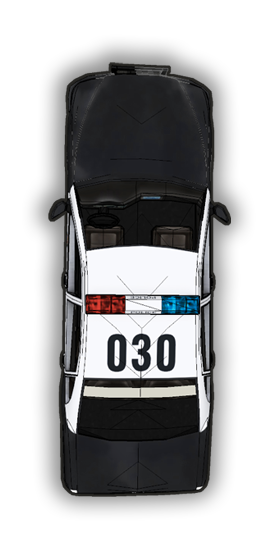
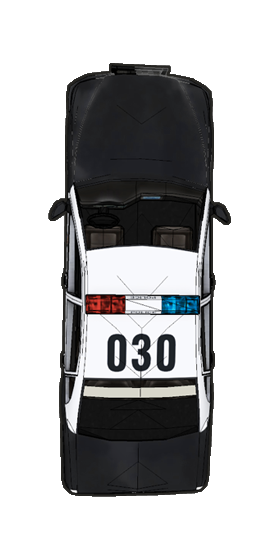
Transparent textures Changed Cop texture size

Changed region(s): [[0.1143, 0.0607, 0.8857, 0.9107]]

diff --git a/2dracer/2dracer/Game1.cs b/2dracer/2dracer/Game1.cs
@@ -85,7 +85,7 @@ namespace _2dracer
             Texture2D gun = Content.Load<Texture2D>("turret");
             Texture2D bullet = Content.Load<Texture2D>("bullet");
             turret1 = new Turret(gun, bullet);
-            Texture2D car = Content.Load<Texture2D>("RedCar");
+            Texture2D car = Content.Load<Texture2D>("car");
             player = new Player(car, new Vector2(GraphicsDevice.Viewport.Width / 2, GraphicsDevice.Viewport.Height / 2));
 
             Texture2D cop = Content.Load<Texture2D>("cop");

diff --git a/2dracer/2dracer/Enemy.cs b/2dracer/2dracer/Enemy.cs
@@ -83,7 +83,7 @@ namespace _2dracer
         public void Draw()
         {
             rotation += (float)Math.PI / 2;
-            base.DrawRect(8);
+            base.DrawRect(4);
             Game1.spriteBatch.DrawString(Game1.comicSans, "GOING TO " + currentDestination.Location, new Vector2(this.Position.X + 10, this.Position.Y - 10), Color.Red);
             rotation -= (float)Math.PI / 2;
         }
